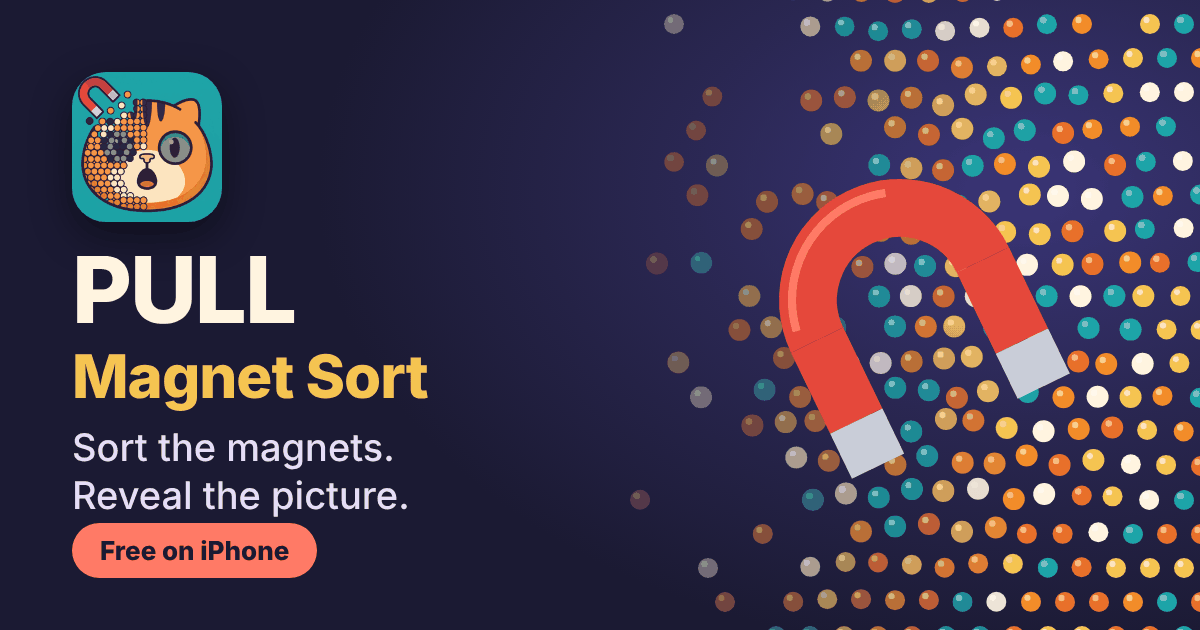
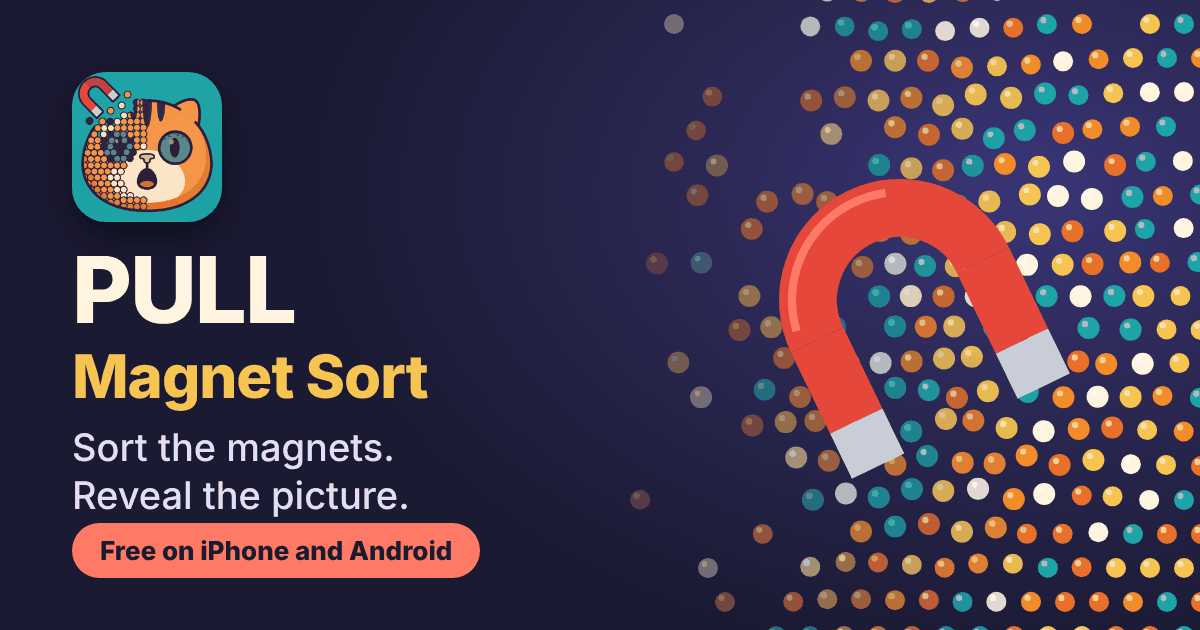
feat(get): route Android visitors to the Play Store listing
PULL is going to Play production, so the Android button now opens the store page and the preview card reads free on iPhone and Android.

diff --git a/get/index.html b/get/index.html
@@ -10,14 +10,14 @@
 <link rel="icon" href="../icon.png"><link rel="apple-touch-icon" href="../icon.png">
 <meta property="og:type" content="website"><meta property="og:site_name" content="PULL: Magnet Sort">
 <meta property="og:title" content="PULL: Magnet Sort">
-<meta property="og:description" content="Sort the magnets. Reveal the picture. Free on iPhone, Android coming soon.">
+<meta property="og:description" content="Sort the magnets. Reveal the picture. Free on iPhone and Android.">
 <meta property="og:url" content="https://rjk6831.github.io/pull-site/get/">
 <meta property="og:image" content="https://rjk6831.github.io/pull-site/get/og.png">
 <meta property="og:image:width" content="1200"><meta property="og:image:height" content="630">
 <meta property="og:image:alt" content="PULL: Magnet Sort app icon beside a red horseshoe magnet pulling colored beads">
 <meta name="twitter:card" content="summary_large_image">
 <meta name="twitter:title" content="PULL: Magnet Sort">
-<meta name="twitter:description" content="Sort the magnets. Reveal the picture. Free on iPhone, Android coming soon.">
+<meta name="twitter:description" content="Sort the magnets. Reveal the picture. Free on iPhone and Android.">
 <meta name="twitter:image" content="https://rjk6831.github.io/pull-site/get/og.png">
 <meta name="twitter:image:alt" content="PULL: Magnet Sort app icon beside a red horseshoe magnet pulling colored beads">
 <style>
@@ -80,7 +80,7 @@ noscript .ns{max-width:360px;margin:16px auto 0;display:grid;gap:10px}
   <p class="pitch" data-i18n="pitch">Sort the magnets. Reveal the picture.</p>
   <div class="actions" style="margin-top:24px">
    <a class="btn primary" id="ios" href="https://testflight.apple.com/join/2nsPVVzH"><span data-i18n="ios">Get it on iPhone</span></a>
-   <a class="btn secondary" id="android" aria-disabled="true"><span data-i18n="android">Get it on Android</span><small data-i18n="soon">Coming soon to Google Play</small></a>
+   <a class="btn secondary" id="android" href="https://play.google.com/store/apps/details?id=com.rootsnolimits.pull"><span data-i18n="android">Get it on Android</span></a>
   </div>
   <p class="status" id="status" role="status" aria-live="polite" style="margin-top:16px"></p>
   <div class="bar" aria-hidden="true"><i></i></div>
@@ -97,7 +97,7 @@ noscript .ns{max-width:360px;margin:16px auto 0;display:grid;gap:10px}
 // ---- Config ----
 var IOS_URL="https://testflight.apple.com/join/2nsPVVzH";
 var ANDROID_URL="https://play.google.com/store/apps/details?id=com.rootsnolimits.pull";
-var ANDROID_LIVE=false;
+var ANDROID_LIVE=true;
 var REDIRECT_DELAY_MS=600;
 // ---- Copy ----
 var STRINGS={

diff --git a/tools/get.template.html b/tools/get.template.html
@@ -10,14 +10,14 @@
 <link rel="icon" href="../icon.png"><link rel="apple-touch-icon" href="../icon.png">
 <meta property="og:type" content="website"><meta property="og:site_name" content="PULL: Magnet Sort">
 <meta property="og:title" content="PULL: Magnet Sort">
-<meta property="og:description" content="Sort the magnets. Reveal the picture. Free on iPhone, Android coming soon.">
+<meta property="og:description" content="Sort the magnets. Reveal the picture. Free on iPhone and Android.">
 <meta property="og:url" content="https://rjk6831.github.io/pull-site/get/">
 <meta property="og:image" content="https://rjk6831.github.io/pull-site/get/og.png">
 <meta property="og:image:width" content="1200"><meta property="og:image:height" content="630">
 <meta property="og:image:alt" content="PULL: Magnet Sort app icon beside a red horseshoe magnet pulling colored beads">
 <meta name="twitter:card" content="summary_large_image">
 <meta name="twitter:title" content="PULL: Magnet Sort">
-<meta name="twitter:description" content="Sort the magnets. Reveal the picture. Free on iPhone, Android coming soon.">
+<meta name="twitter:description" content="Sort the magnets. Reveal the picture. Free on iPhone and Android.">
 <meta name="twitter:image" content="https://rjk6831.github.io/pull-site/get/og.png">
 <meta name="twitter:image:alt" content="PULL: Magnet Sort app icon beside a red horseshoe magnet pulling colored beads">
 <style>
@@ -80,7 +80,7 @@ noscript .ns{max-width:360px;margin:16px auto 0;display:grid;gap:10px}
   <p class="pitch" data-i18n="pitch">Sort the magnets. Reveal the picture.</p>
   <div class="actions" style="margin-top:24px">
    <a class="btn primary" id="ios" href="https://testflight.apple.com/join/2nsPVVzH"><span data-i18n="ios">Get it on iPhone</span></a>
-   <a class="btn secondary" id="android" aria-disabled="true"><span data-i18n="android">Get it on Android</span><small data-i18n="soon">Coming soon to Google Play</small></a>
+   <a class="btn secondary" id="android" href="https://play.google.com/store/apps/details?id=com.rootsnolimits.pull"><span data-i18n="android">Get it on Android</span></a>
   </div>
   <p class="status" id="status" role="status" aria-live="polite" style="margin-top:16px"></p>
   <div class="bar" aria-hidden="true"><i></i></div>
@@ -97,7 +97,7 @@ noscript .ns{max-width:360px;margin:16px auto 0;display:grid;gap:10px}
 // ---- Config ----
 var IOS_URL="https://testflight.apple.com/join/2nsPVVzH";
 var ANDROID_URL="https://play.google.com/store/apps/details?id=com.rootsnolimits.pull";
-var ANDROID_LIVE=false;
+var ANDROID_LIVE=true;
 var REDIRECT_DELAY_MS=600;
 // ---- Copy ----
 var STRINGS={

diff --git a/tools/og.html b/tools/og.html
@@ -13,7 +13,7 @@ p{position:absolute;left:72px;top:424px;font-size:38px;font-weight:500;color:#E5
 <img class="icon" src="file:///home/claude/pull-site/icon.png">
 <h1>PULL<span>Magnet Sort</span></h1>
 <p>Sort the magnets.<br>Reveal the picture.</p>
-<div class="pill">Free on iPhone</div>
+<div class="pill">Free on iPhone and Android</div>
 <script>
 const c=document.getElementById('c').getContext('2d');
 let s=7;function r(){s=(s*16807)%2147483647;return s/2147483647}
